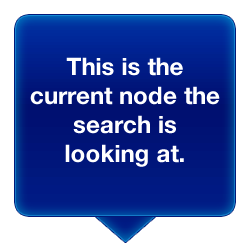
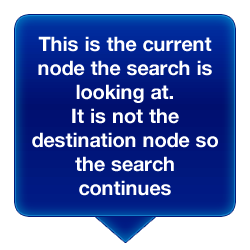
Bug fixes

Changed region(s): [[0.112, 0.336, 0.896, 0.784], [0.14, 0.14, 0.868, 0.308], [0.784, 0.532, 0.896, 0.588]]

diff --git a/core/src/com/b3/gui/RenderTester.java b/core/src/com/b3/gui/RenderTester.java
@@ -137,9 +137,12 @@ public class RenderTester {
         tempTexture = new Texture("core/assets/world/popups/oldF250x250.JPG.png");
         olderFrontierSprite[0] = new Sprite(tempTexture);
 
-        fullyExploredSprite = new Sprite[1];
+        //fully explored (grey colours; two pages)
+        fullyExploredSprite = new Sprite[2];
         tempTexture = new Texture("core/assets/world/popups/fullyExplored250x250.JPG.png");
         fullyExploredSprite[0] = new Sprite(tempTexture);
+        tempTexture = new Texture("core/assets/world/popups/fullyExplored250x250.JPG_2.png");
+        fullyExploredSprite[1] = new Sprite(tempTexture);
 
         numbers = new Sprite[10];
         //Load Numbers
@@ -199,7 +202,8 @@ public class RenderTester {
                         if (scalingZoom < 4.5)
                             tempXScaler = (float) ((4.5/20) - (scalingZoom / 20));
                         //draw current g(x) function onto the screen.
-                        drawNumberOnScreen((int) gxFunction, currentNodeClickX, (float) (currentNodeClickY+0.175) - tempXScaler , scalingZoom);
+                        if (pageNo == 2)
+                            drawNumberOnScreen((int) gxFunction, currentNodeClickX, (float) (currentNodeClickY+0.5) - tempXScaler , scalingZoom);
 
                     } else
                         //if JUST added to stack / queue
@@ -212,17 +216,18 @@ public class RenderTester {
                                 spriteBatch.draw(lastFrontierSprite[0], (float) ((currentNodeClickX - scalingZoom / 2) + 0.5),
                                         (float) (currentNodeClickY + 0.5), scalingZoom, scalingZoom);
                             } else if (worldGraph.getCurrentSearch().getFrontier().contains(new Node(new Point(currentNodeClickX, currentNodeClickY)))) {
+                                //if the old frontier
                                 if (pageNo >= olderFrontierSprite.length) pageNo = 0; //reset to first page if neccessary
                                 //TODO Put some info around the screen somewhere
                                 spriteBatch.draw(olderFrontierSprite[0], (float) ((currentNodeClickX - scalingZoom / 2) + 0.5),
                                         (float) (currentNodeClickY + 0.5), scalingZoom, scalingZoom);
                             } else
-                                //if already expanded
+                                //MULTI PAGE DONE if already expanded
                                 if (worldGraph.getCurrentSearch().getVisited() != null)
                                     if (worldGraph.getCurrentSearch().getVisited().contains(new Node(new Point(currentNodeClickX, currentNodeClickY)))) {
                                         if (pageNo >= fullyExploredSprite.length) pageNo = 0; //reset to first page if neccessary
                                         //TODO Put some info around the screen somewhere
-                                        spriteBatch.draw(fullyExploredSprite[0], (float) ((currentNodeClickX - scalingZoom / 2) + 0.5),
+                                        spriteBatch.draw(fullyExploredSprite[pageNo], (float) ((currentNodeClickX - scalingZoom / 2) + 0.5),
                                                 (float) (currentNodeClickY + 0.5), scalingZoom, scalingZoom);
                                     }
         //----ALL RENDERS GO HERE---
